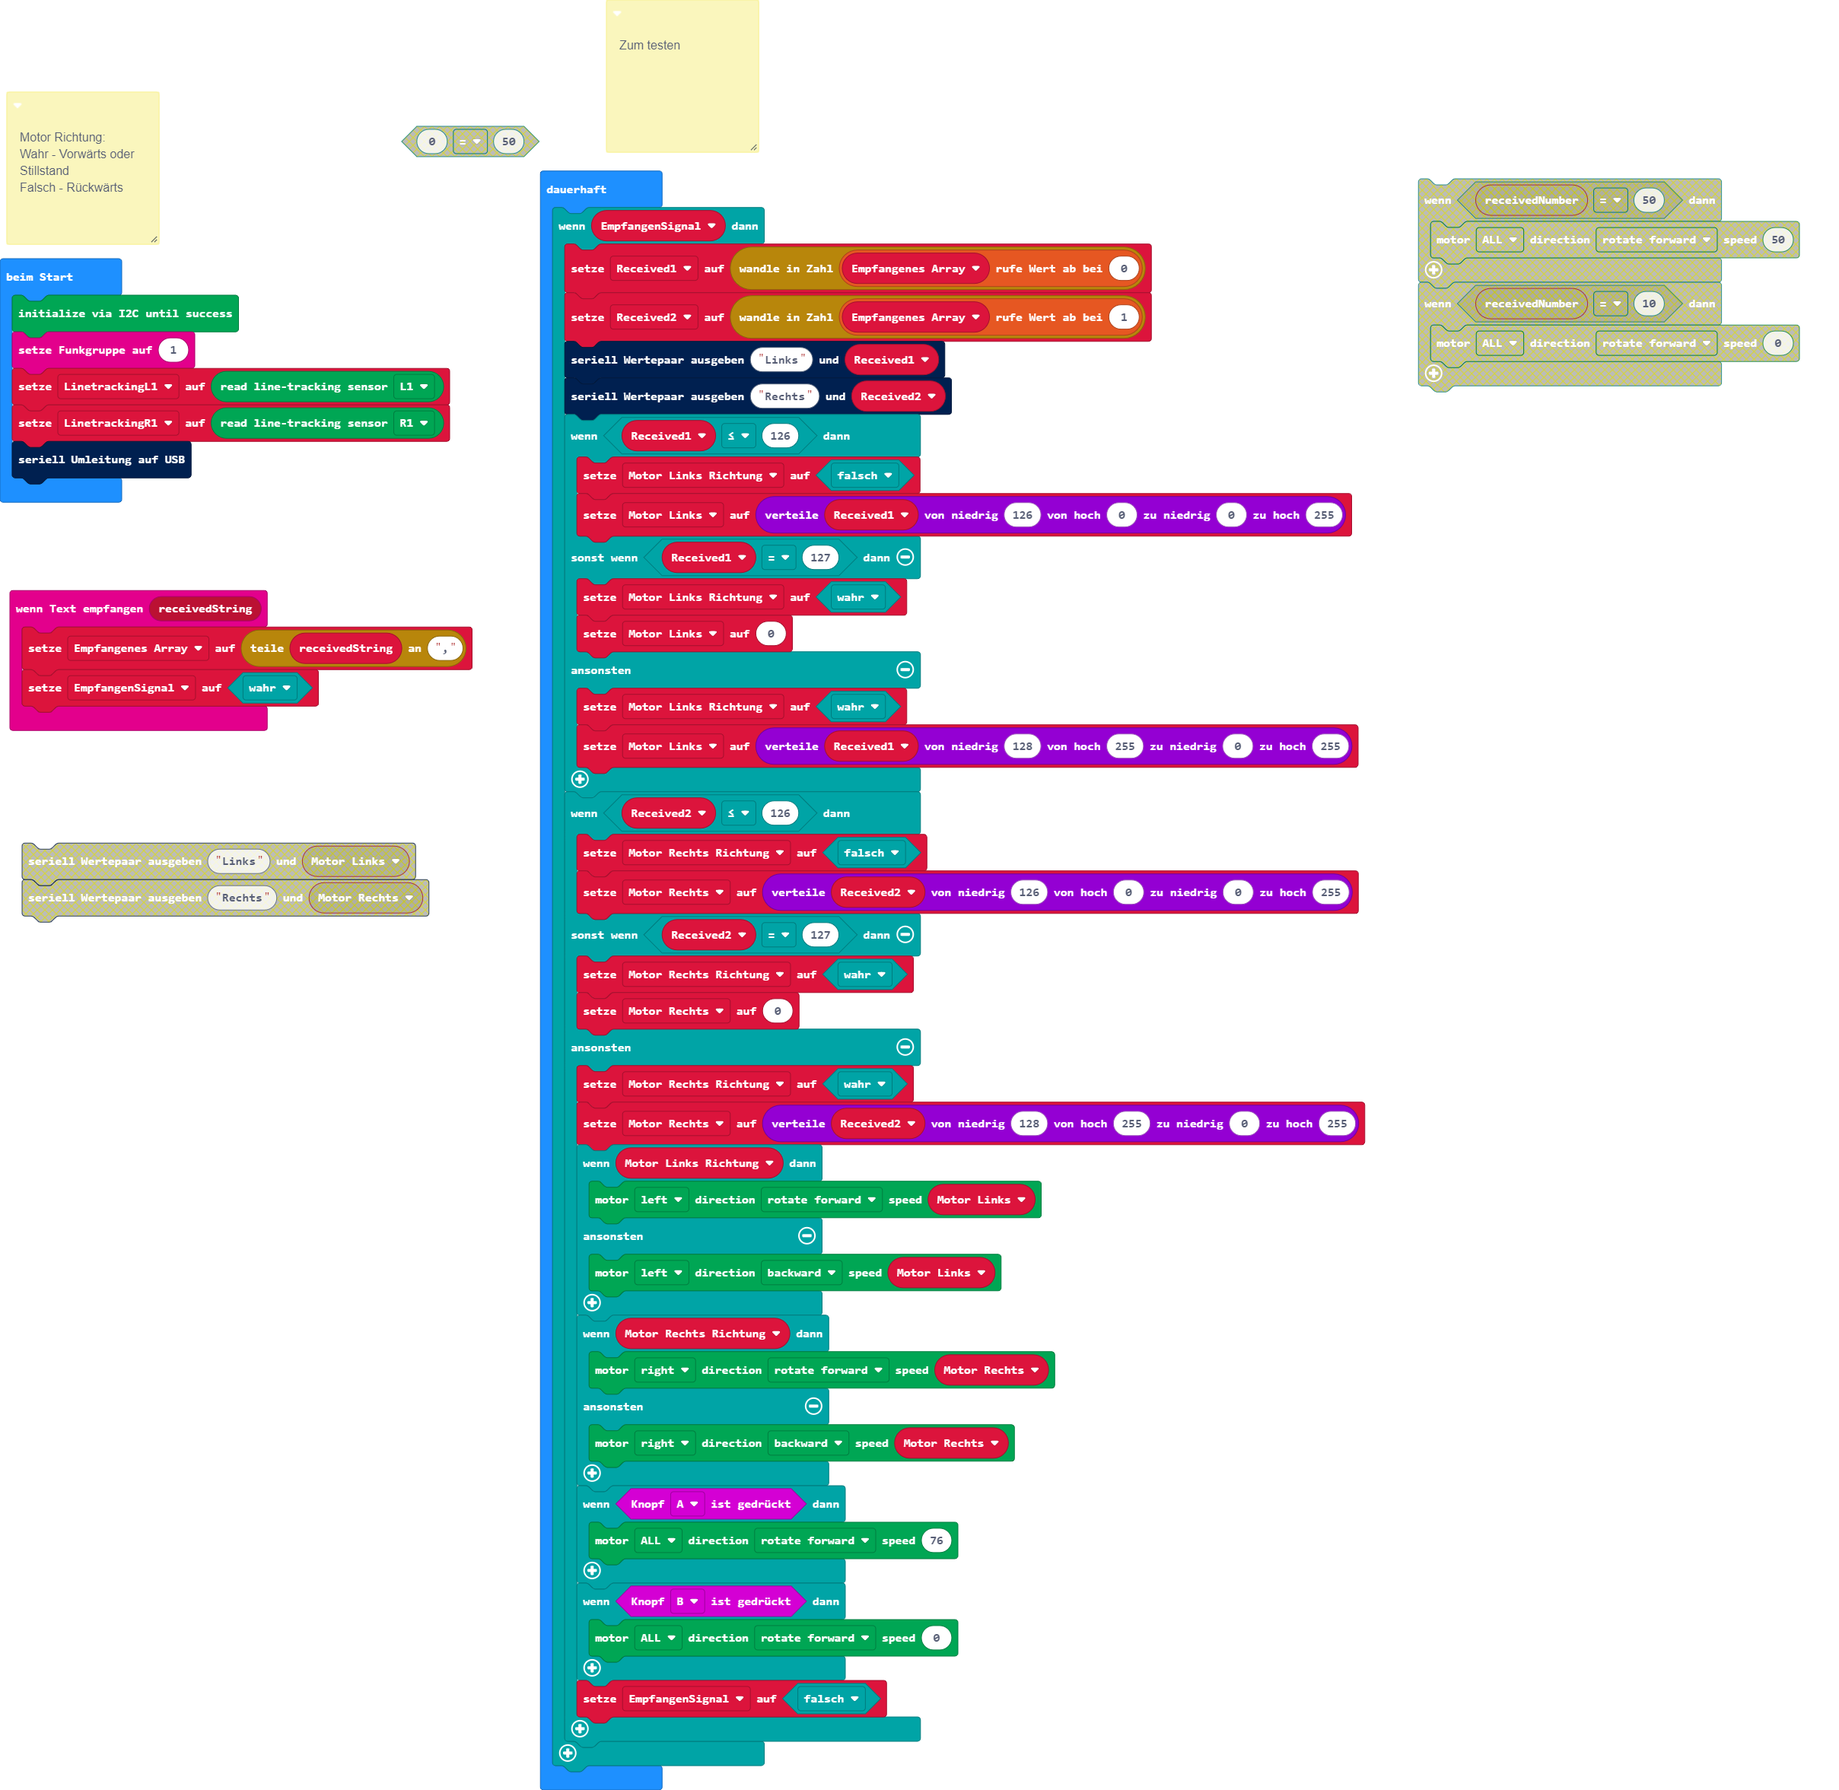
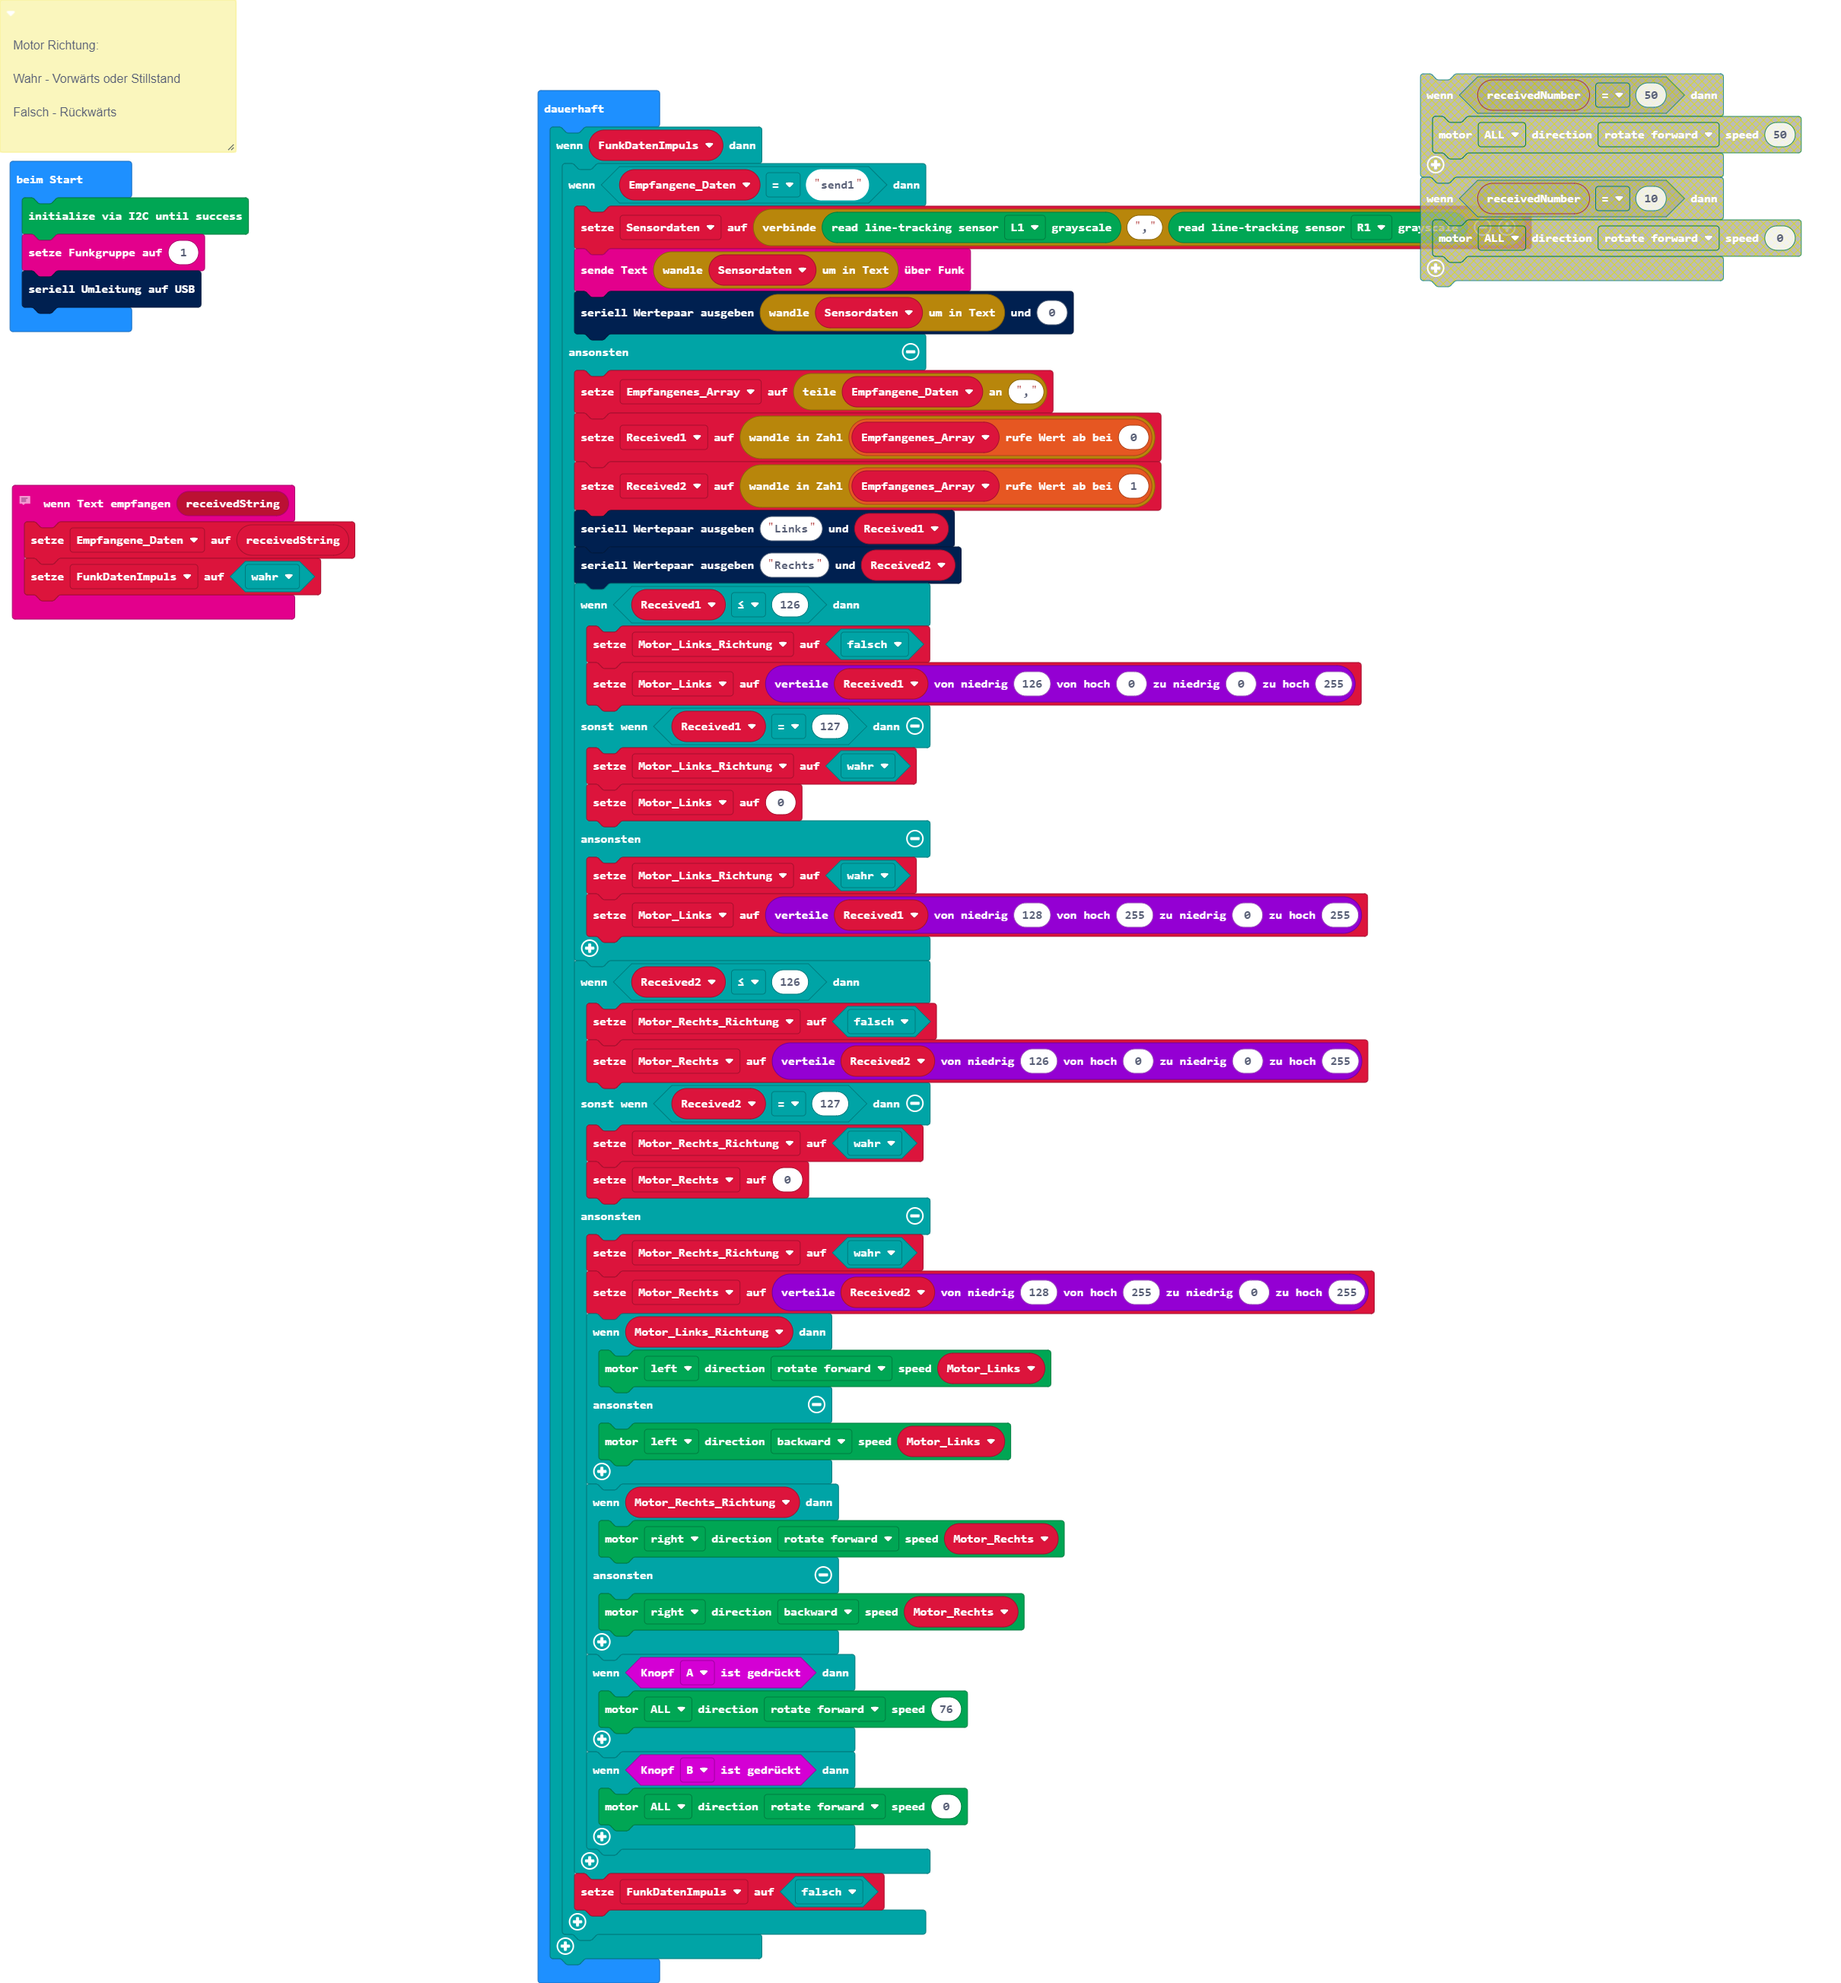
Aktualisiere main.blocks, main.ts

Changed region(s): [[0.0, 0.0, 0.993, 0.9928], [0.0, 0.4654, 0.2482, 0.5274]]

diff --git a/main.ts b/main.ts
@@ -1,9 +1,7 @@
-/**
- * Zum testen
- */
+// Zum testen
 radio.onReceivedString(function (receivedString) {
-    Empfangenes_Array = receivedString.split(",")
-    EmpfangenSignal = true
+    Empfangene_Daten = receivedString
+    FunkDatenImpuls = true
 })
 /**
  * Motor Richtung:
@@ -18,55 +16,62 @@ let Motor_Links = 0
 let Motor_Links_Richtung = false
 let Received2 = 0
 let Received1 = 0
-let EmpfangenSignal = false
 let Empfangenes_Array: string[] = []
+let Sensordaten = ""
+let FunkDatenImpuls = false
+let Empfangene_Daten = ""
 DFRobotMaqueenPlus.I2CInit()
 radio.setGroup(1)
-let LinetrackingL1 = DFRobotMaqueenPlus.readPatrol(Patrol.L1)
-let LinetrackingR1 = DFRobotMaqueenPlus.readPatrol(Patrol.R1)
 serial.redirectToUSB()
 basic.forever(function () {
-    if (EmpfangenSignal) {
-        Received1 = parseFloat(Empfangenes_Array[0])
-        Received2 = parseFloat(Empfangenes_Array[1])
-        serial.writeValue("Links", Received1)
-        serial.writeValue("Rechts", Received2)
-        if (Received1 <= 126) {
-            Motor_Links_Richtung = false
-            Motor_Links = Math.map(Received1, 126, 0, 0, 255)
-        } else if (Received1 == 127) {
-            Motor_Links_Richtung = true
-            Motor_Links = 0
+    if (FunkDatenImpuls) {
+        if (Empfangene_Daten == "send1") {
+            Sensordaten = "" + DFRobotMaqueenPlus.readPatrolVoltage(Patrol.L1) + "," + DFRobotMaqueenPlus.readPatrolVoltage(Patrol.R1)
+            radio.sendString(convertToText(Sensordaten))
+            serial.writeValue(convertToText(Sensordaten), 0)
         } else {
-            Motor_Links_Richtung = true
-            Motor_Links = Math.map(Received1, 128, 255, 0, 255)
-        }
-        if (Received2 <= 126) {
-            Motor_Rechts_Richtung = false
-            Motor_Rechts = Math.map(Received2, 126, 0, 0, 255)
-        } else if (Received2 == 127) {
-            Motor_Rechts_Richtung = true
-            Motor_Rechts = 0
-        } else {
-            Motor_Rechts_Richtung = true
-            Motor_Rechts = Math.map(Received2, 128, 255, 0, 255)
-            if (Motor_Links_Richtung) {
-                DFRobotMaqueenPlus.mototRun(Motors.M1, Dir.CW, Motor_Links)
+            Empfangenes_Array = Empfangene_Daten.split(",")
+            Received1 = parseFloat(Empfangenes_Array[0])
+            Received2 = parseFloat(Empfangenes_Array[1])
+            serial.writeValue("Links", Received1)
+            serial.writeValue("Rechts", Received2)
+            if (Received1 <= 126) {
+                Motor_Links_Richtung = false
+                Motor_Links = Math.map(Received1, 126, 0, 0, 255)
+            } else if (Received1 == 127) {
+                Motor_Links_Richtung = true
+                Motor_Links = 0
             } else {
-                DFRobotMaqueenPlus.mototRun(Motors.M1, Dir.CCW, Motor_Links)
+                Motor_Links_Richtung = true
+                Motor_Links = Math.map(Received1, 128, 255, 0, 255)
             }
-            if (Motor_Rechts_Richtung) {
-                DFRobotMaqueenPlus.mototRun(Motors.M2, Dir.CW, Motor_Rechts)
+            if (Received2 <= 126) {
+                Motor_Rechts_Richtung = false
+                Motor_Rechts = Math.map(Received2, 126, 0, 0, 255)
+            } else if (Received2 == 127) {
+                Motor_Rechts_Richtung = true
+                Motor_Rechts = 0
             } else {
-                DFRobotMaqueenPlus.mototRun(Motors.M2, Dir.CCW, Motor_Rechts)
+                Motor_Rechts_Richtung = true
+                Motor_Rechts = Math.map(Received2, 128, 255, 0, 255)
+                if (Motor_Links_Richtung) {
+                    DFRobotMaqueenPlus.mototRun(Motors.M1, Dir.CW, Motor_Links)
+                } else {
+                    DFRobotMaqueenPlus.mototRun(Motors.M1, Dir.CCW, Motor_Links)
+                }
+                if (Motor_Rechts_Richtung) {
+                    DFRobotMaqueenPlus.mototRun(Motors.M2, Dir.CW, Motor_Rechts)
+                } else {
+                    DFRobotMaqueenPlus.mototRun(Motors.M2, Dir.CCW, Motor_Rechts)
+                }
+                if (input.buttonIsPressed(Button.A)) {
+                    DFRobotMaqueenPlus.mototRun(Motors.ALL, Dir.CW, 76)
+                }
+                if (input.buttonIsPressed(Button.B)) {
+                    DFRobotMaqueenPlus.mototRun(Motors.ALL, Dir.CW, 0)
+                }
             }
-            if (input.buttonIsPressed(Button.A)) {
-                DFRobotMaqueenPlus.mototRun(Motors.ALL, Dir.CW, 76)
-            }
-            if (input.buttonIsPressed(Button.B)) {
-                DFRobotMaqueenPlus.mototRun(Motors.ALL, Dir.CW, 0)
-            }
-            EmpfangenSignal = false
+            FunkDatenImpuls = false
         }
     }
 })
